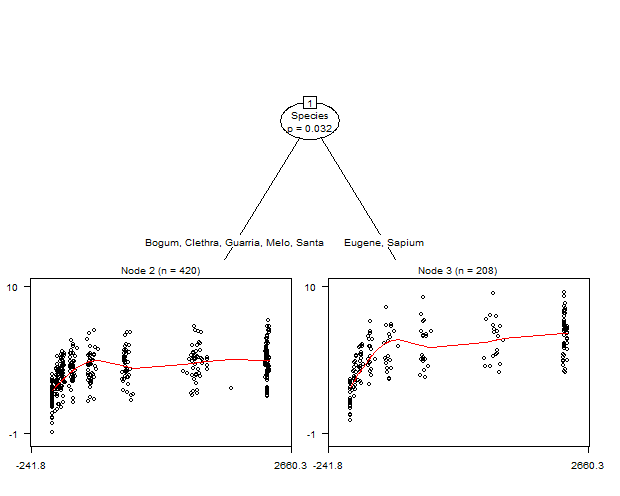
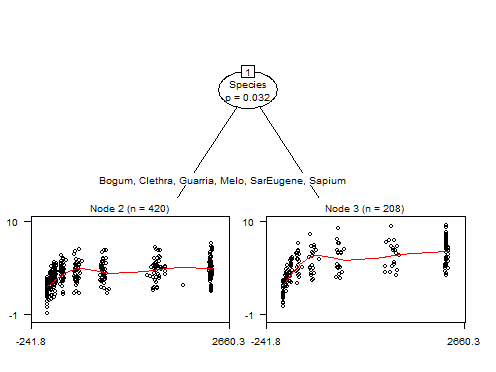
readme updates

diff --git a/README.md b/README.md
@@ -134,7 +134,7 @@ predictors:
 ``` r
 par(mfrow = c(2, 2))
 plot(gt1, which = "terms", which_terms = "local", 
-     gamplot_ctrl = list(shade = TRUE, cex.main = .6, cex.axis = .6, cex.lab = .6))
+     gamplot_ctrl = list(shade = TRUE, cex.main = .8, cex.axis = .6, cex.lab = .6))
 ```
 
 ![](inst/README-figures/README-unnamed-chunk-10-1.png)
@@ -269,7 +269,7 @@ plot(gt2, which = "tree", treeplot_ctrl = list(gp = gpar(cex = .5)))
 
 ``` r
 par(mfrow = c(2, 2))
-plot(gt2, which = "terms", gamplot_ctrl = list(shade = TRUE, cex.main = .6, 
+plot(gt2, which = "terms", gamplot_ctrl = list(shade = TRUE, cex.main = .8, 
                                                cex.axis = .6, cex.lab = .6))
 ```
 
@@ -297,11 +297,11 @@ gam.check(gt2$gamm)
 #> Basis dimension (k) checking results. Low p-value (k-index<1) may
 #> indicate that k is too low, especially if edf is close to k'.
 #> 
-#>                  k'   edf k-index p-value  
-#> s(PAR):.tree2  9.00  8.14    0.92   0.020 *
-#> s(PAR):.tree4  9.00  6.53    0.92   0.040 *
-#> s(PAR):.tree5  9.00  8.52    0.92   0.035 *
-#> s(cluster_id) 21.00  5.86      NA      NA  
+#>                  k'   edf k-index p-value   
+#> s(PAR):.tree2  9.00  8.14    0.92   0.030 * 
+#> s(PAR):.tree4  9.00  6.53    0.92   0.025 * 
+#> s(PAR):.tree5  9.00  8.52    0.92   0.005 **
+#> s(cluster_id) 21.00  5.86      NA      NA   
 #> ---
 #> Signif. codes:  0 '***' 0.001 '**' 0.01 '*' 0.05 '.' 0.1 ' ' 1
 ```
@@ -345,7 +345,7 @@ gam.check(gt3$gamm)
 #> indicate that k is too low, especially if edf is close to k'.
 #> 
 #>                  k'   edf k-index p-value  
-#> s(PAR):.tree2 17.00  9.42    0.93   0.020 *
+#> s(PAR):.tree2 17.00  9.42    0.93   0.040 *
 #> s(PAR):.tree3 17.00  8.11    0.93   0.045 *
 #> s(cluster_id) 21.00  7.51      NA      NA  
 #> ---
@@ -369,7 +369,7 @@ plot(gt4, which = "tree", treeplot_ctrl = list(gp = gpar(cex = .5)))
 
 ``` r
 par(mfrow = c(2, 2))
-plot(gt4, which = "terms", gamplot_ctrl = list(shade = TRUE, cex.main = .6, 
+plot(gt4, which = "terms", gamplot_ctrl = list(shade = TRUE, cex.main = .8, 
                                                cex.axis = .6, cex.lab = .6))
 ```
 
